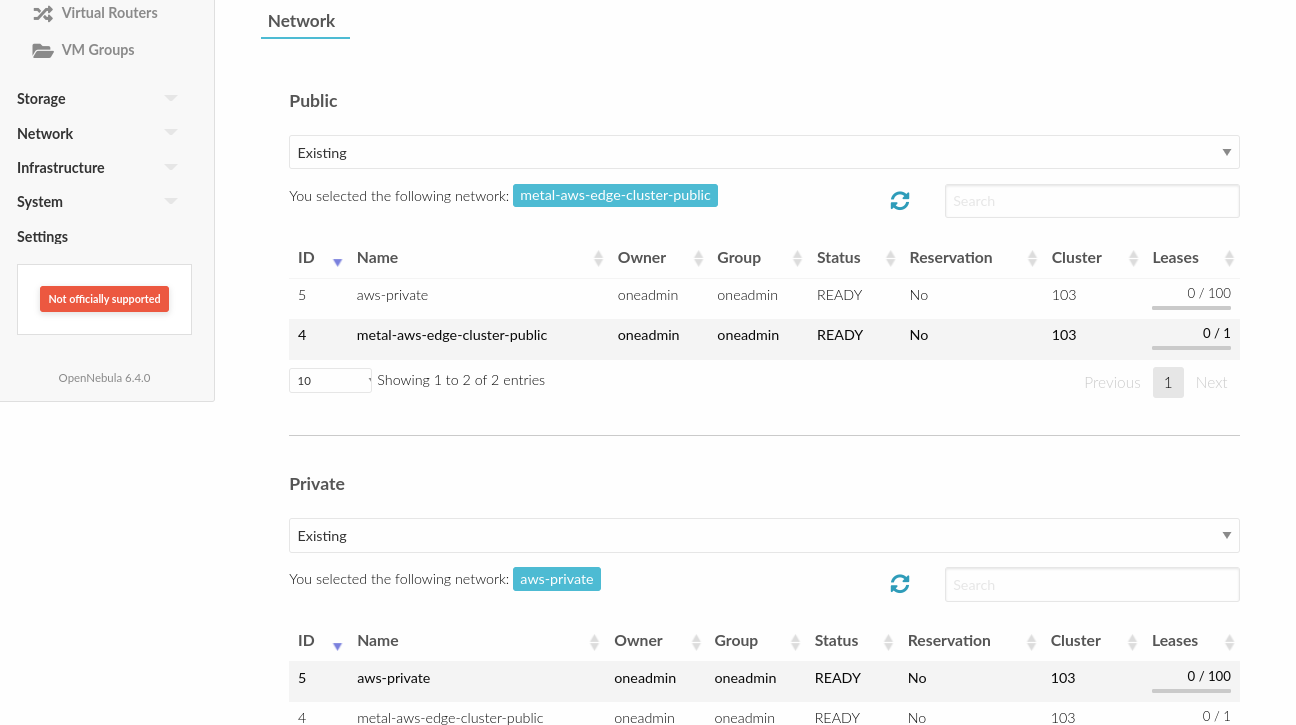
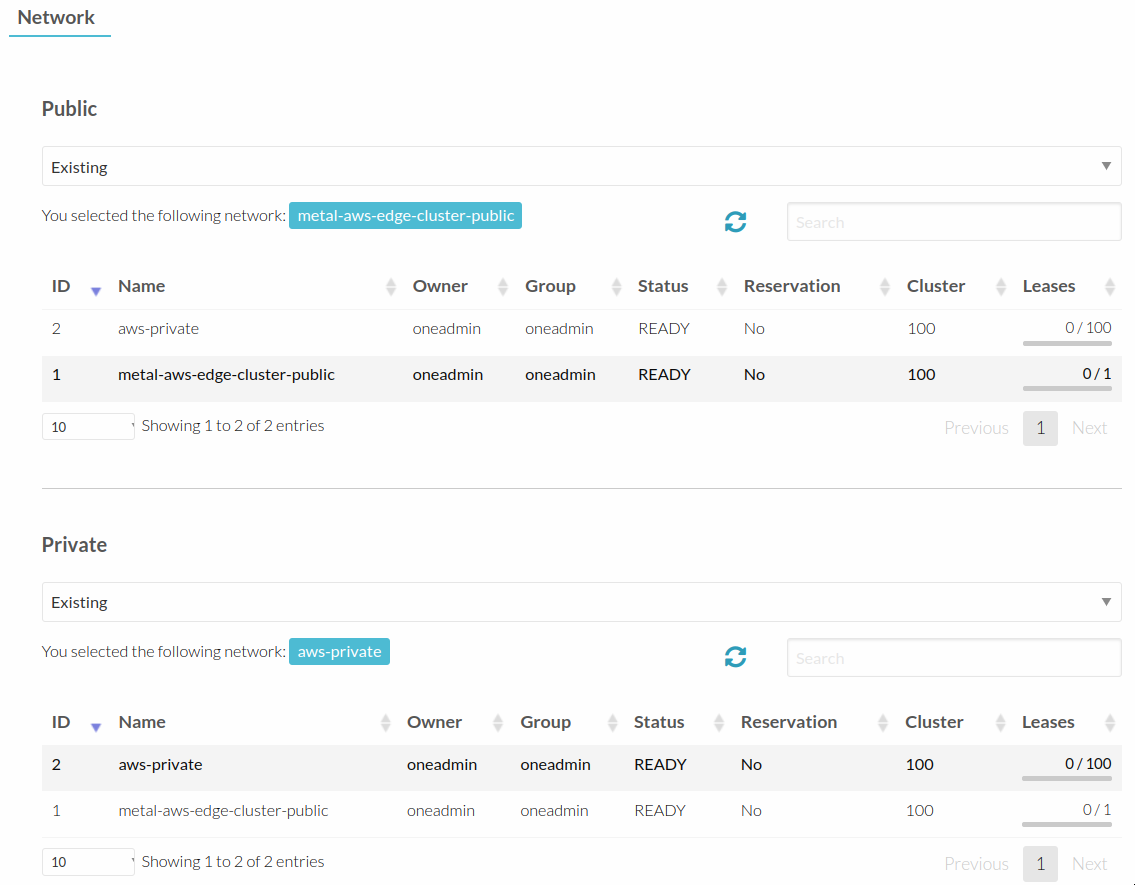
M #-: Update OneKE 1.24 CE QS guide

diff --git a/source/quick_start/usage_basics/running_kubernetes_clusters.rst b/source/quick_start/usage_basics/running_kubernetes_clusters.rst
@@ -8,23 +8,23 @@ In the public OpenNebula System Marketplace there are also services available th
 
 .. important:: This guide assumes that you have deployed the OpenNebula front-end following the :ref:`Deployment Basics guide <deployment_basics>` and a metal Edge Cluster with KVM hypervisor following the :ref:`Provisining an Edge Cluster <first_edge_cluster>` guide. This ensures that your OpenNebula front-end has a publicly accessible IP address so the deployed services can report to the OneGate server (see :ref:`OneGate Configuration <onegate_conf>` for more details).
 
-We are going to assume the Edge Cluster naming schema ``metal-kvm-aws-cluster``.
+We are going to assume the Edge Cluster naming schema ``metal-aws-edge-cluster``.
 
 Step 1. Download the OneFlow Service from the Marketplace
 ~~~~~~~~~~~~~~~~~~~~~~~~~~~~~~~~~~~~~~~~~~~~~~~~~~~~~~~~~~
 
-Log in to Sunstone as oneadmin. Go to the ``Storage --> Apps`` tab and search for ``Kubernetes``. Select the ``Service Kubernetes 1.23`` and click on the icon with the cloud and the down arrow inside (two positions to the right from the green ``+``).
+Log in to Sunstone as oneadmin. Go to the ``Storage --> Apps`` tab and search for ``OneKE``. Select the ``Service OneKE 1.24 CE`` and click on the icon with the cloud and the down arrow inside (two positions to the right from the green ``+``).
 
-|kubernetes_marketplace|
+|kubernetes-qs-marketplace|
 
-Now you need to select a datastore. Select the ``metal-kvm-aws-cluster-image`` Datastore.
+Now you need to select a datastore. Select the ``metal-aws-edge-cluster-image`` Datastore.
 
-|metal_kvm_aws_cluster_images_datastore|
+|kubernetes-qs-marketplace-datastore|
 
 The Appliance will be ready when the image in ``Storage --> Images`` switches to ``READY`` from its ``LOCKED`` state. This process may take significant amount of time based on the networking resources available in your infrastructure (Kubernetes 1.23 amounts to a total of 120GB).
 
-.. |kubernetes_marketplace| image:: /images/kubernetes_marketplace.png
-.. |metal_kvm_aws_cluster_images_datastore| image:: /images/metal_kvm_aws_cluster_images_datastore.png
+.. |kubernetes-qs-marketplace|           image:: /images/kubernetes-qs-marketplace.png
+.. |kubernetes-qs-marketplace-datastore| image:: /images/kubernetes-qs-marketplace-datastore.png
 
 Step 2. Instantiate private network
 ~~~~~~~~~~~~~~~~~~~~~~~~~~~~~~~~~~~
@@ -45,11 +45,11 @@ Step 3. Instantiate the Kubernetes Service
 
 .. note::
 
-    You may want to adjust the VM templates before you progress further - go to ``Templates --> VMs``, click on the ``Service Kubernetes 1.23`` and blue button ``Update`` at the top.
+    You may want to adjust the VM templates before you progress further - go to ``Templates --> VMs``, click on the ``Service OneKE 1.24 CE`` and blue button ``Update`` at the top.
 
-Proceed to the ``Templates --> Services`` tab and select the ``Service Kubernetes 1.23`` Service Template. Click on ``+`` and then ``Instantiate``.
+Proceed to the ``Templates --> Services`` tab and select the ``Service OneKE 1.24 CE`` Service Template. Click on ``+`` and then ``Instantiate``.
 
-A required step is clicking on ``Network`` and selecting the ``metal-kvm-aws-cluster-public`` network for public network.
+A required step is clicking on ``Network`` and selecting the ``metal-aws-edge-cluster-public`` network for public network.
 
 And for private network we will use the ``aws-private`` we instantiated before.
 
@@ -119,10 +119,10 @@ We are going to use the root account in the master to perform a simple validatio
 .. prompt:: yaml $ auto
 
     root@onekube-ip-172-20-0-2:~# kubectl get nodes
-    NAME                    STATUS   ROLES                  AGE     VERSION
-    onekube-ip-172-20-0-2   Ready    control-plane,master   7m30s   v1.23.7
-    onekube-ip-172-20-0-3   Ready    <none>                 4m33s   v1.23.7
-    onekube-ip-172-20-0-4   Ready    <none>                 2m39s   v1.23.7
+    NAME                    STATUS   ROLES                       AGE   VERSION
+    onekube-ip-172-20-0-2   Ready    control-plane,etcd,master   13m   v1.24.1+rke2r2
+    onekube-ip-172-20-0-3   Ready    <none>                      10m   v1.24.1+rke2r2
+    onekube-ip-172-20-0-4   Ready    <none>                      10m   v1.24.1+rke2r2
 
 Now create a file ``kubetest_1pod.yaml`` with the following contents:
 
@@ -208,10 +208,10 @@ and then in another terminal:
 .. prompt:: text [remote]$ auto
 
     [remote]$ kubectl get nodes
-    NAME                    STATUS   ROLES                  AGE     VERSION
-    onekube-ip-172-20-0-2   Ready    control-plane,master   13m     v1.23.7
-    onekube-ip-172-20-0-3   Ready    <none>                 11m     v1.23.7
-    onekube-ip-172-20-0-4   Ready    <none>                 11m     v1.23.7
+    NAME                    STATUS   ROLES                       AGE   VERSION
+    onekube-ip-172-20-0-2   Ready    control-plane,etcd,master   15m   v1.24.1+rke2r2
+    onekube-ip-172-20-0-3   Ready    <none>                      13m   v1.24.1+rke2r2
+    onekube-ip-172-20-0-4   Ready    <none>                      12m   v1.24.1+rke2r2
 
 Step 6. Deploy an Application
 ~~~~~~~~~~~~~~~~~~~~~~~~~~~~~
